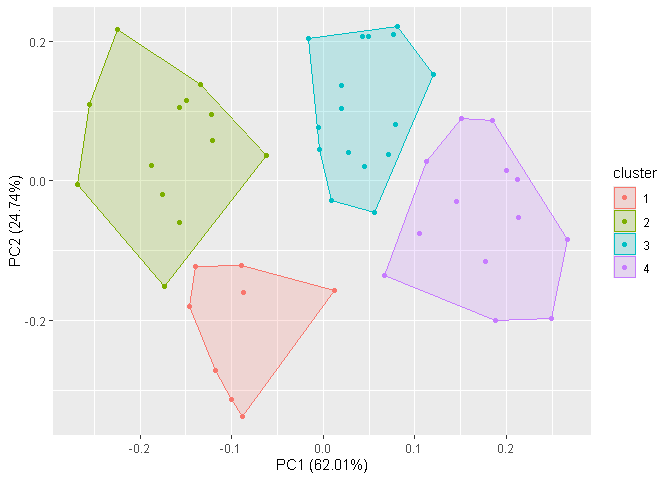
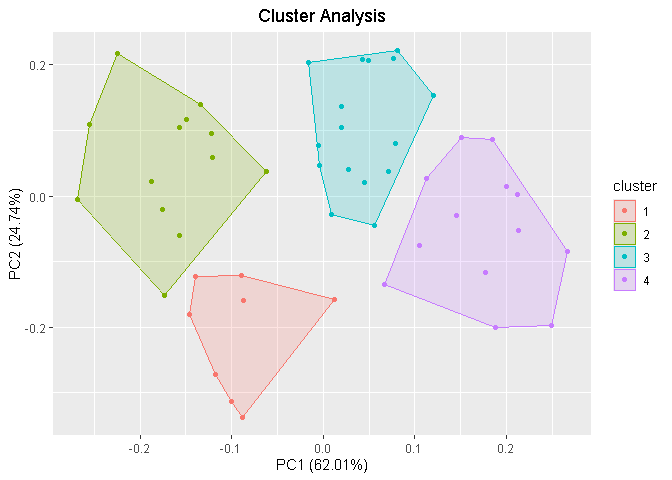
updating kmeans_USArrests

diff --git a/kmeans_USArrests.md b/kmeans_USArrests.md
@@ -376,7 +376,8 @@ kmeans2
     ## [6] "betweenss"    "size"         "iter"         "ifault"
 
 ``` r
-autoplot(kmeans2, scaled_DB, frame = TRUE)
+autoplot(kmeans2, scaled_DB, frame = TRUE) + ggtitle('Cluster Analysis') +
+  theme(plot.title = element_text(hjust = 0.5))
 ```
 
 ![](kmeans_USArrests_files/figure-gfm/unnamed-chunk-20-1.png)<!-- -->
@@ -441,7 +442,8 @@ kmeans3
     ## [6] "betweenss"    "size"         "iter"         "ifault"
 
 ``` r
-autoplot(kmeans3, scaled_DB, frame = TRUE)
+autoplot(kmeans3, scaled_DB, frame = TRUE) + ggtitle('Cluster Analysis') +
+  theme(plot.title = element_text(hjust = 0.5))
 ```
 
 ![](kmeans_USArrests_files/figure-gfm/unnamed-chunk-22-1.png)<!-- -->
@@ -510,7 +512,8 @@ kmeans4
     ## [6] "betweenss"    "size"         "iter"         "ifault"
 
 ``` r
-autoplot(kmeans4, scaled_DB, frame = TRUE)
+autoplot(kmeans4, scaled_DB, frame = TRUE)+ ggtitle('Cluster Analysis') +
+  theme(plot.title = element_text(hjust = 0.5))
 ```
 
 ![](kmeans_USArrests_files/figure-gfm/unnamed-chunk-24-1.png)<!-- -->
@@ -582,7 +585,8 @@ kmeans5
     ## [6] "betweenss"    "size"         "iter"         "ifault"
 
 ``` r
-autoplot(kmeans5, scaled_DB, frame = TRUE)
+autoplot(kmeans5, scaled_DB, frame = TRUE)+ ggtitle('Cluster Analysis') +
+  theme(plot.title = element_text(hjust = 0.5))
 ```
 
 ![](kmeans_USArrests_files/figure-gfm/unnamed-chunk-26-1.png)<!-- -->
@@ -639,7 +643,8 @@ kmeans6
     ## [6] "betweenss"    "size"         "iter"         "ifault"
 
 ``` r
-autoplot(kmeans6, scaled_DB, frame = TRUE)
+autoplot(kmeans6, scaled_DB, frame = TRUE) + ggtitle('Cluster Analysis') +
+  theme(plot.title = element_text(hjust = 0.5))
 ```
 
 ![](kmeans_USArrests_files/figure-gfm/unnamed-chunk-28-1.png)<!-- -->
